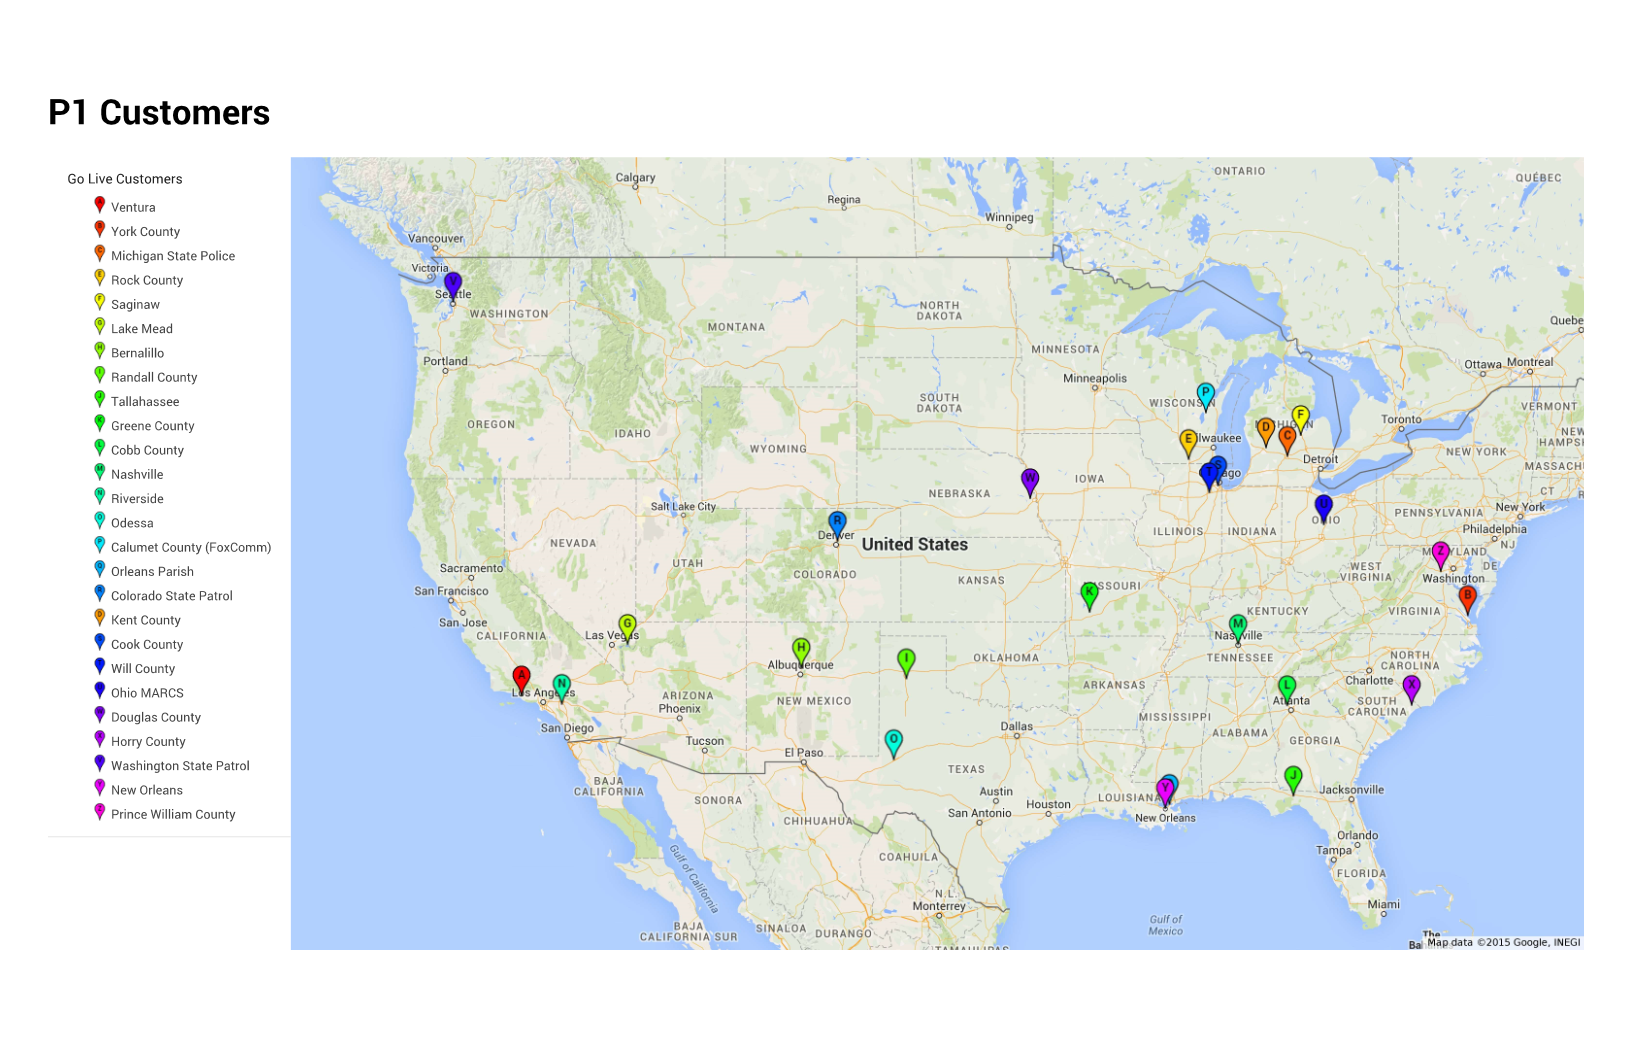
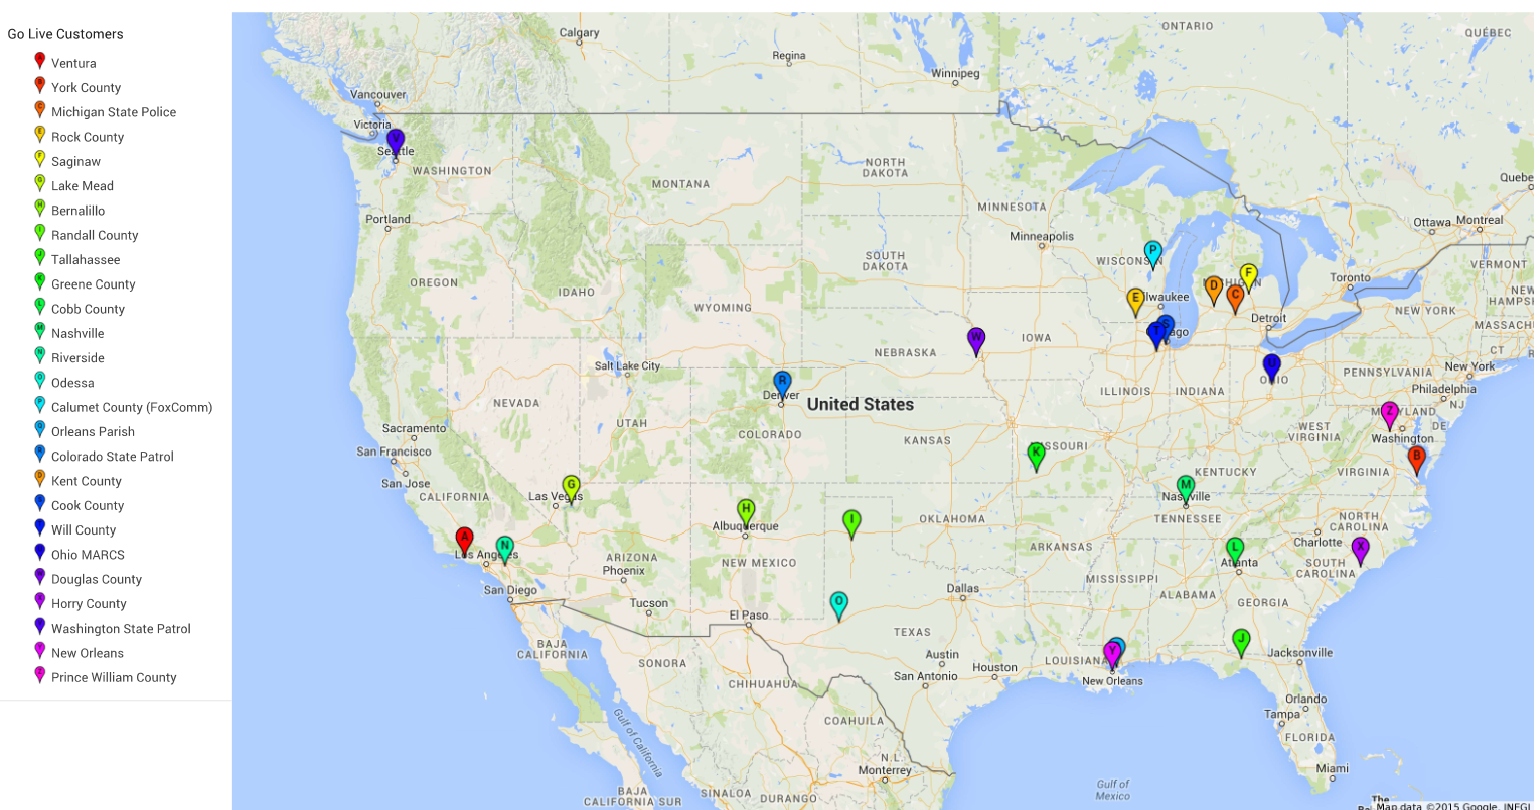
map

diff --git a/Log/Scripts/css/custom.css b/Log/Scripts/css/custom.css
@@ -4,7 +4,6 @@ html , body{
  height:100%;
  
 }
- 
 .full-width {
 	
  width:100%;
@@ -251,6 +250,10 @@ html , body{
 }
 .menu_section>ul {
     margin-top: 10px
+}
+.custom-map {
+    width: 950px;
+    height: 500px;
 }
 .profile_pic {
     width: 35%;
